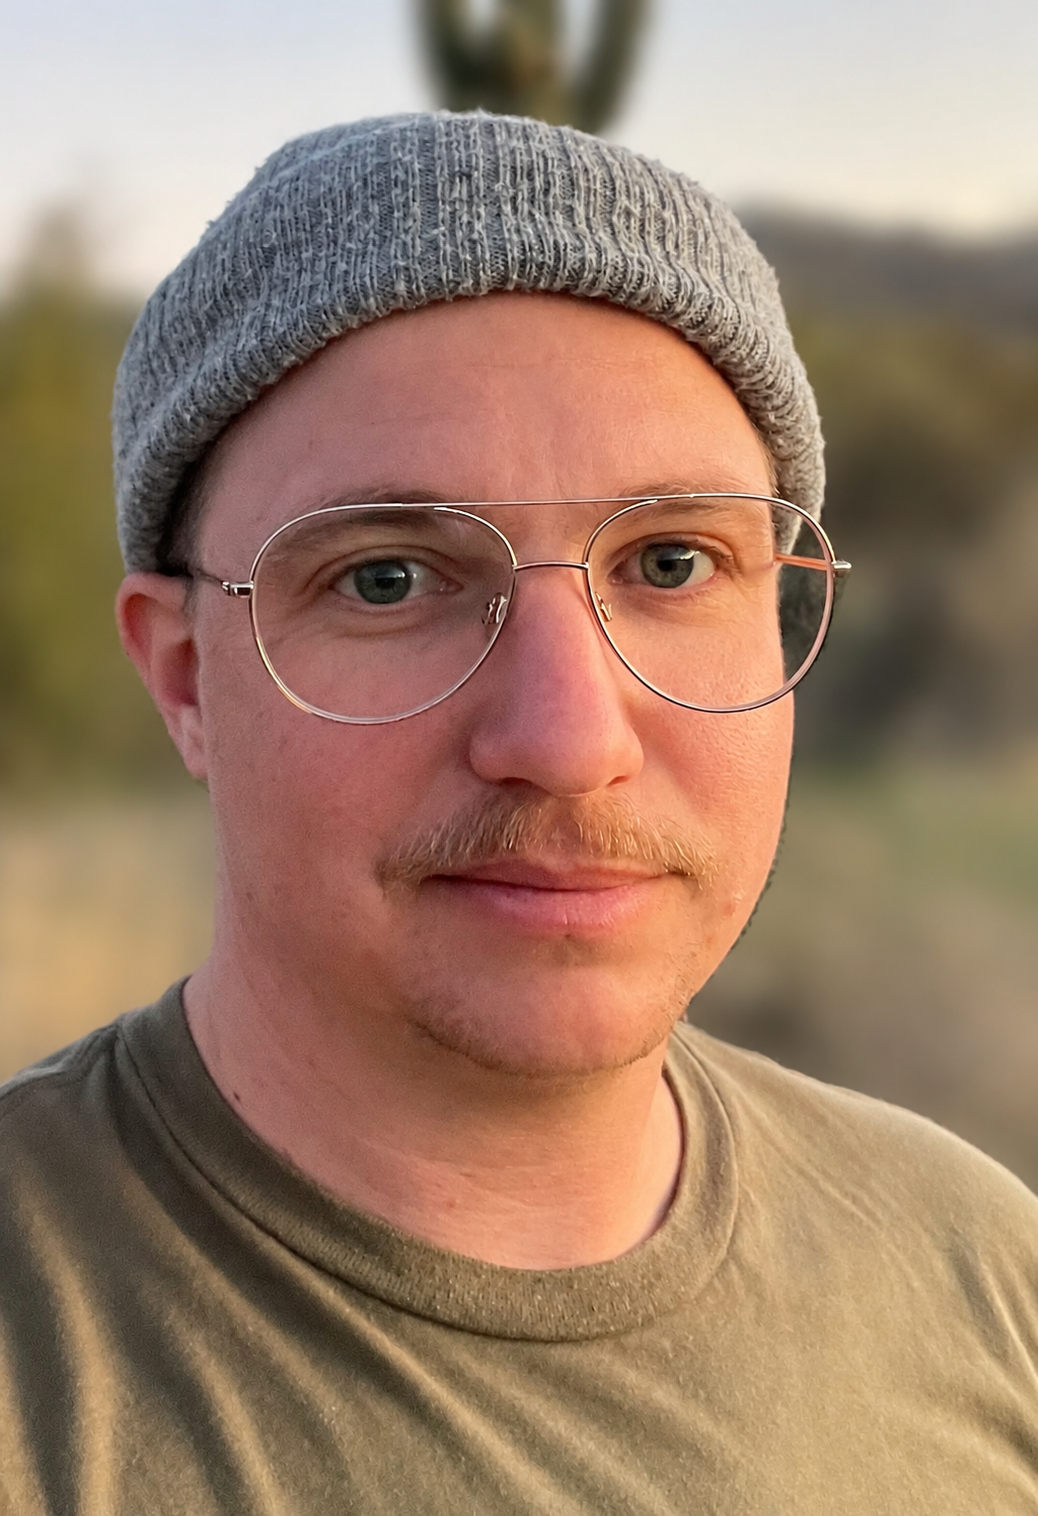
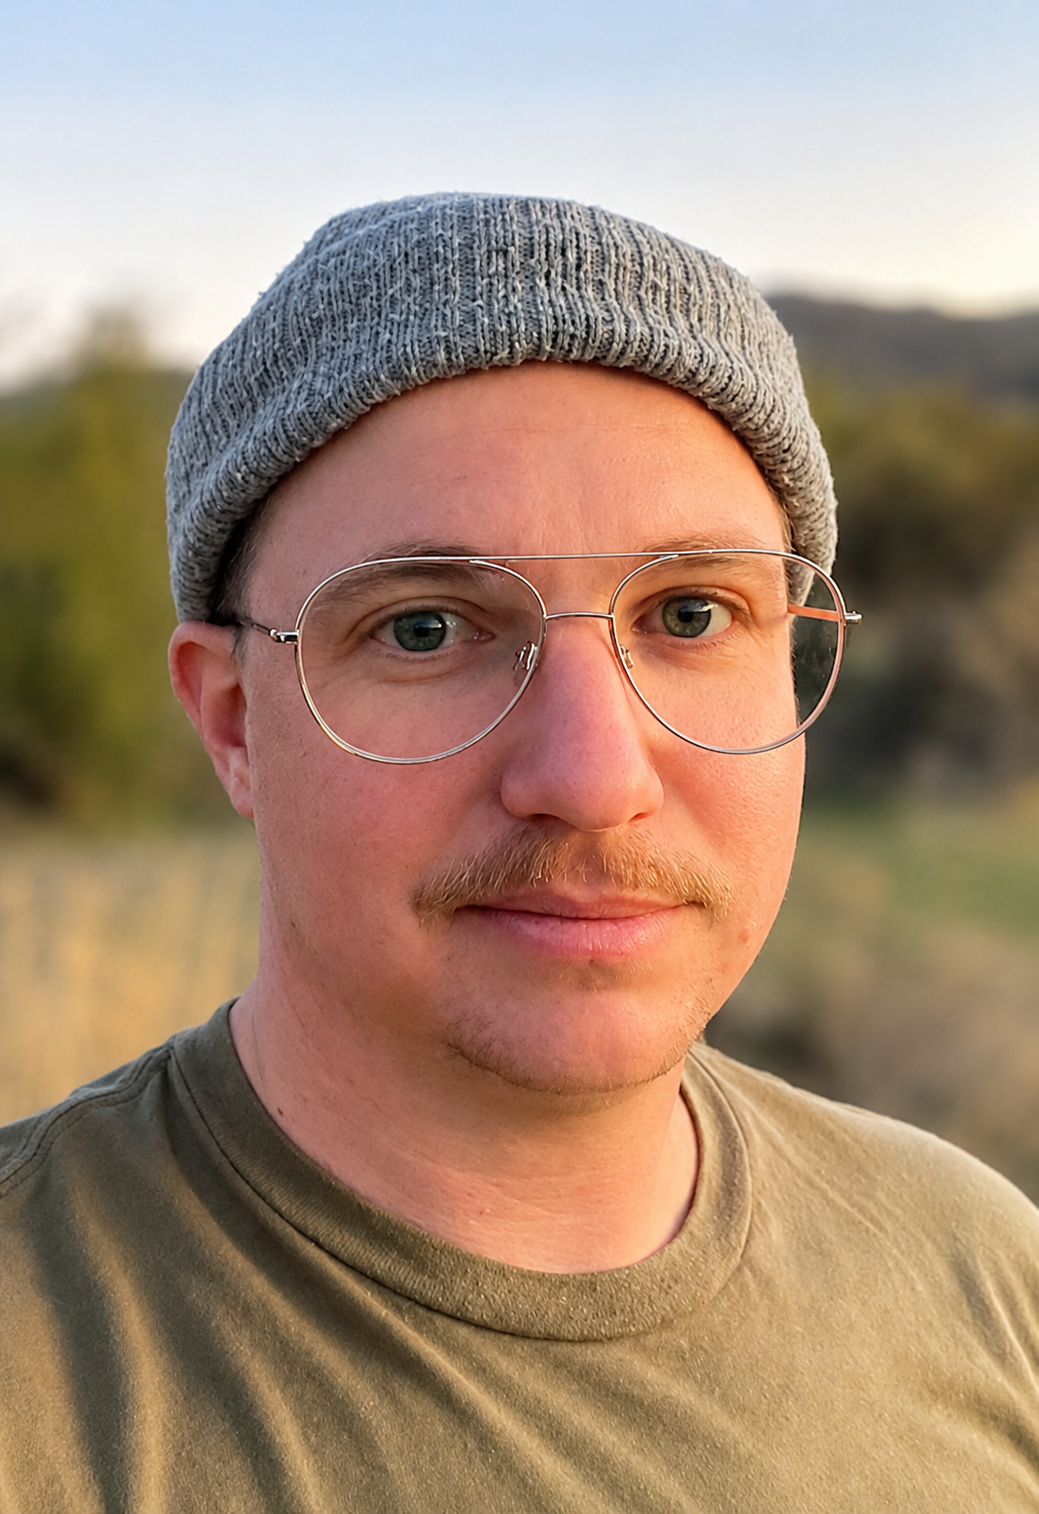
hero img fiddling

diff --git a/index.html b/index.html
@@ -16,7 +16,7 @@
           <p class="eyebrow">Senior Rails Developer | Consultant • Remote</p>
           <div class="hero-name-row">
             <div class="hero-image hero-image--mobile">
-              <img src="img/headshot.png" alt="Kai Hofius" />
+              <img src="img/kaictus.png" alt="Kai Hofius" />
             </div>
             <h1>Kai Hofius</h1>
           </div>
@@ -29,7 +29,7 @@
           <p class="contract-callout">Now accepting contract engagements.</p>
         </div>
         <div class="hero-image hero-image--desktop">
-          <img src="img/headshot.png" alt="Kai Hofius" />
+          <img src="img/kaictus.png" alt="Kai Hofius" />
         </div>
       </div>
     </header>

diff --git a/style.css b/style.css
@@ -90,6 +90,7 @@ body {
 
 .hero-image--desktop {
   justify-self: end;
+  align-self: end;
 }
 
 .hero-image--desktop img {